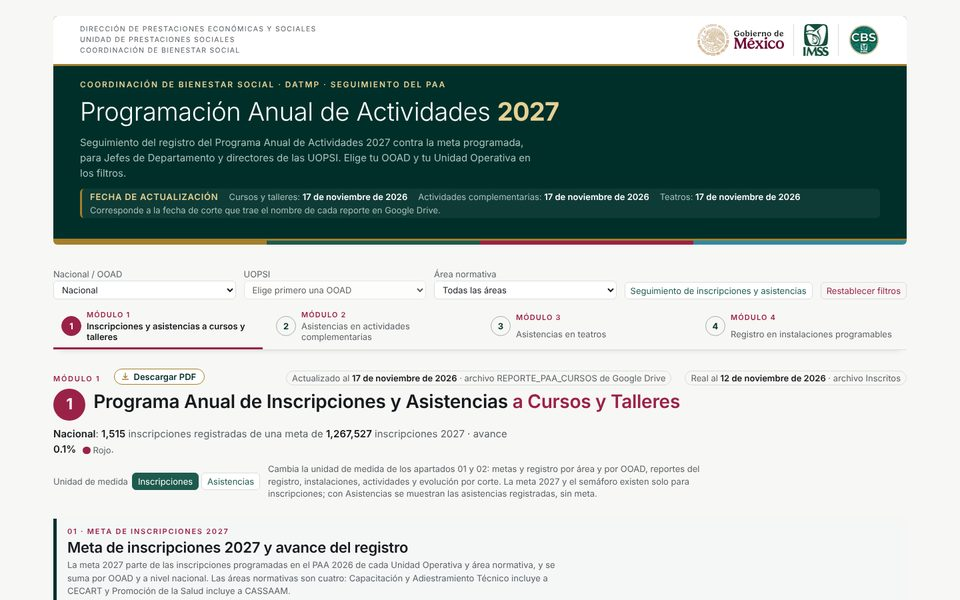
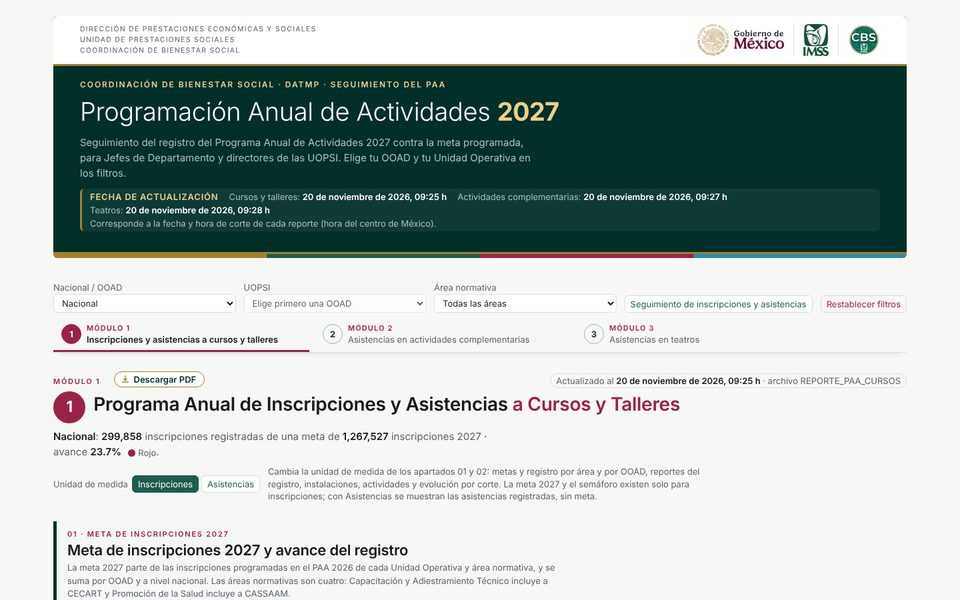
Actualiza el portafolio: agrega Agenda de Giras y el tablero de control del PAA, y actualiza fechas y capturas
Claude-Session: https://claude.ai/code/session_01MfByuxqzdMRzx3sx89Wjzf

Changed region(s): [[0.0312, 0.3, 0.9688, 0.84], [0.0625, 0.87, 0.5938, 1.0]]

diff --git a/index.html b/index.html
@@ -52,9 +52,9 @@ h2{font-size:19px;line-height:1.3;font-weight:700;margin:0;color:var(--verde-osc
     <h1>Proyectos publicados en GitHub</h1>
     <p class="lead">Tableros, fichas y libros digitales de la DATMP. Cada tarjeta lleva a la versión en línea del proyecto.</p>
     <div class="meta">
-      <span><b>6</b> proyectos en línea</span>
+      <span><b>8</b> proyectos en línea</span>
       <span>Cuenta <b>gestionsocialcbs</b></span>
-      <span>Última actualización <b>17 de noviembre de 2026</b></span>
+      <span>Última actualización <b>20 de noviembre de 2026</b></span>
     </div>
   </div>
 </header>
@@ -64,14 +64,53 @@ h2{font-size:19px;line-height:1.3;font-weight:700;margin:0;color:var(--verde-osc
     <div class="grid">
 
       <article class="card">
+        <a class="shot" href="https://gestionsocialcbs.github.io/agendagiras/" aria-label="Abrir Agenda de Giras"><img src="img/agendagiras.jpg" alt="Captura de la herramienta Agenda de Giras" loading="lazy"></a>
+        <div class="body">
+          <span class="tag">Herramienta</span>
+          <h2>Agenda de Giras</h2>
+          <p class="desc">Herramienta web para elaborar la agenda de visita de acompañamiento del Titular de la Unidad de Prestaciones Sociales a las Unidades Operativas, con mapa de recorridos y exportación a Word.</p>
+          <p class="upd">Actualizado el 20 de noviembre de 2026</p>
+          <div class="actions">
+            <a class="btn primary" href="https://gestionsocialcbs.github.io/agendagiras/">Abrir herramienta</a>
+          </div>
+        </div>
+      </article>
+
+      <article class="card">
         <a class="shot" href="https://gestionsocialcbs.github.io/PAA27/" aria-label="Abrir Programación Anual de Actividades 2027"><img src="img/paa27.jpg" alt="Captura del tablero de la Programación Anual de Actividades 2027" loading="lazy"></a>
         <div class="body">
           <span class="tag">Tablero</span>
           <h2>Programación Anual de Actividades 2027</h2>
           <p class="desc">Seguimiento del registro de la PAA 2027: inscripciones contra la meta nacional, asistencias, actividades complementarias, teatros e instalaciones programables, por OOAD, Unidad Operativa e instalación.</p>
-          <p class="upd">Actualizado el 17 de noviembre de 2026</p>
+          <p class="upd">Actualizado el 20 de noviembre de 2026</p>
           <div class="actions">
             <a class="btn primary" href="https://gestionsocialcbs.github.io/PAA27/">Abrir tablero</a>
+          </div>
+        </div>
+      </article>
+
+      <article class="card">
+        <a class="shot" href="https://gestionsocialcbs.github.io/DCAT/" aria-label="Abrir Capacitación y Adiestramiento Técnico 2019–2026"><img src="img/dcat.jpg" alt="Captura del tablero de Capacitación y Adiestramiento Técnico 2019 a 2026" loading="lazy"></a>
+        <div class="body">
+          <span class="tag">Tablero</span>
+          <h2>Capacitación y Adiestramiento Técnico 2019–2026</h2>
+          <p class="desc">Análisis del comportamiento de las inscripciones y asistencias de los cursos de Capacitación y Adiestramiento Técnico, con espacios de capacitación y filtros por año, UOPSI e instalación.</p>
+          <p class="upd">Actualizado el 19 de noviembre de 2026</p>
+          <div class="actions">
+            <a class="btn primary" href="https://gestionsocialcbs.github.io/DCAT/">Abrir tablero</a>
+          </div>
+        </div>
+      </article>
+
+      <article class="card">
+        <a class="shot" href="https://gestionsocialcbs.github.io/Analisis-de-programacion-Anual/" aria-label="Abrir Tablero de control del Programa Anual de Actividades"><img src="img/analisis-paa.jpg" alt="Captura del tablero de control del Programa Anual de Actividades" loading="lazy"></a>
+        <div class="body">
+          <span class="tag">Tablero</span>
+          <h2>Tablero de control del Programa Anual de Actividades</h2>
+          <p class="desc">Compara lo programado contra lo realizado en inscripciones y asistencias, por año, OOAD, UOPSI, área normativa y actividad, con mapa por OOAD y comparativo de indicadores.</p>
+          <p class="upd">Actualizado el 17 de noviembre de 2026</p>
+          <div class="actions">
+            <a class="btn primary" href="https://gestionsocialcbs.github.io/Analisis-de-programacion-Anual/">Abrir tablero</a>
           </div>
         </div>
       </article>
@@ -90,7 +129,7 @@ h2{font-size:19px;line-height:1.3;font-weight:700;margin:0;color:var(--verde-osc
       </article>
 
       <article class="card">
-        <a class="shot" href="https://gestionsocialcbs.github.io/ctpaa2027/" aria-label="Abrir CTPAA 2027"><img src="img/ctpaa2027.jpg" alt="Captura del lector digital del CTPAA 2027 con la portada del documento" loading="lazy"></a>
+        <a class="shot" href="https://gestionsocialcbs.github.io/ctpaa2027/" aria-label="Abrir CTPAA 2027 · Lector digital"><img src="img/ctpaa2027.jpg" alt="Captura del lector digital del CTPAA 2027 con la portada del documento" loading="lazy"></a>
         <div class="body">
           <span class="tag">eBook</span>
           <h2>CTPAA 2027 · Lector digital</h2>
@@ -116,20 +155,7 @@ h2{font-size:19px;line-height:1.3;font-weight:700;margin:0;color:var(--verde-osc
       </article>
 
       <article class="card">
-        <a class="shot" href="https://gestionsocialcbs.github.io/DCAT/" aria-label="Abrir Capacitación y Adiestramiento Técnico 2019 a 2026"><img src="img/dcat.jpg" alt="Captura del tablero de Capacitación y Adiestramiento Técnico 2019 a 2026" loading="lazy"></a>
-        <div class="body">
-          <span class="tag">Tablero</span>
-          <h2>Capacitación y Adiestramiento Técnico 2019–2026</h2>
-          <p class="desc">Análisis del comportamiento de las inscripciones y asistencias de los cursos de Capacitación y Adiestramiento Técnico, con espacios de capacitación y filtros por año, UOPSI e instalación.</p>
-          <p class="upd">Actualizado el 28 de octubre de 2026</p>
-          <div class="actions">
-            <a class="btn primary" href="https://gestionsocialcbs.github.io/DCAT/">Abrir tablero</a>
-          </div>
-        </div>
-      </article>
-
-      <article class="card">
-        <a class="shot" href="https://gestionsocialcbs.github.io/uopsi_sistemaeducativo/" aria-label="Abrir Análisis Geoespacial de las UOPSI y el sistema educativo"><img src="img/uopsi.jpg" alt="Captura del visor del análisis geoespacial de las UOPSI y el sistema educativo público" loading="lazy"></a>
+        <a class="shot" href="https://gestionsocialcbs.github.io/uopsi_sistemaeducativo/" aria-label="Abrir UOPSI y sistema educativo público 2026"><img src="img/uopsi.jpg" alt="Captura del visor del análisis geoespacial de las UOPSI y el sistema educativo público" loading="lazy"></a>
         <div class="body">
           <span class="tag">Visor geoespacial</span>
           <h2>UOPSI y sistema educativo público 2026</h2>
